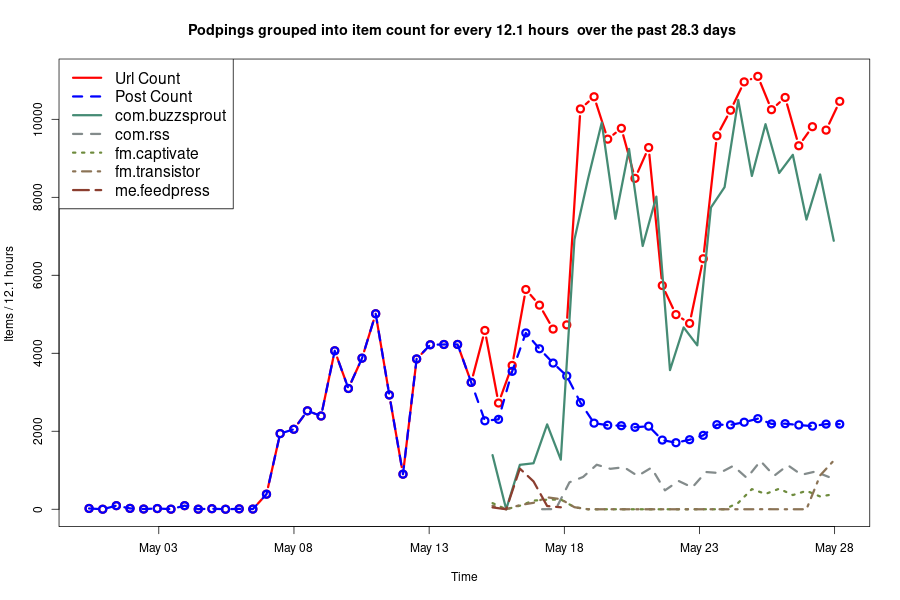
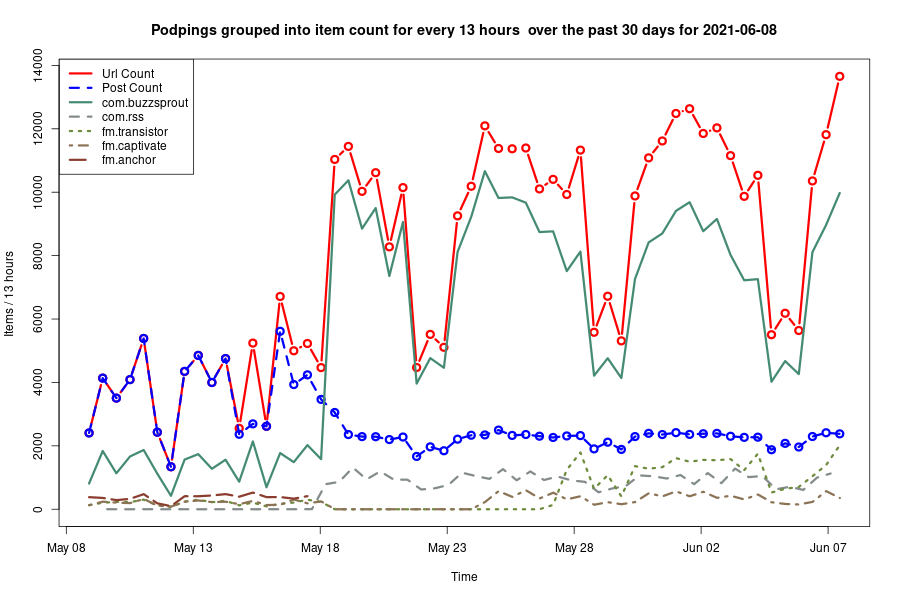
update reports

diff --git a/mastodon-toot-bot-hive/stats/index.md b/mastodon-toot-bot-hive/stats/index.md
@@ -7,12 +7,12 @@
 
 </head>
 <body>
-<div id="uxxnbngkma" style="overflow-x:auto;overflow-y:auto;width:auto;height:auto;">
+<div id="dcnlryonre" style="overflow-x:auto;overflow-y:auto;width:auto;height:auto;">
   <style>html {
   font-family: -apple-system, BlinkMacSystemFont, 'Segoe UI', Roboto, Oxygen, Ubuntu, Cantarell, 'Helvetica Neue', 'Fira Sans', 'Droid Sans', Arial, sans-serif;
 }
 
-#uxxnbngkma .gt_table {
+#dcnlryonre .gt_table {
   display: table;
   border-collapse: collapse;
   margin-left: auto;
@@ -37,7 +37,7 @@
   border-left-color: #D3D3D3;
 }
 
-#uxxnbngkma .gt_heading {
+#dcnlryonre .gt_heading {
   background-color: #71CA97;
   text-align: center;
   border-bottom-color: #B0E0E6;
@@ -49,7 +49,7 @@
   border-right-color: #D3D3D3;
 }
 
-#uxxnbngkma .gt_title {
+#dcnlryonre .gt_title {
   color: #FFFFFF;
   font-size: 125%;
   font-weight: initial;
@@ -59,7 +59,7 @@
   border-bottom-width: 0;
 }
 
-#uxxnbngkma .gt_subtitle {
+#dcnlryonre .gt_subtitle {
   color: #FFFFFF;
   font-size: 85%;
   font-weight: initial;
@@ -69,13 +69,13 @@
   border-top-width: 0;
 }
 
-#uxxnbngkma .gt_bottom_border {
+#dcnlryonre .gt_bottom_border {
   border-bottom-style: solid;
   border-bottom-width: 2px;
   border-bottom-color: #D3D3D3;
 }
 
-#uxxnbngkma .gt_col_headings {
+#dcnlryonre .gt_col_headings {
   border-top-style: solid;
   border-top-width: 2px;
   border-top-color: #D3D3D3;
@@ -90,7 +90,7 @@
   border-right-color: #D3D3D3;
 }
 
-#uxxnbngkma .gt_col_heading {
+#dcnlryonre .gt_col_heading {
   color: #333333;
   background-color: #DeF7E9;
   font-size: 100%;
@@ -110,7 +110,7 @@
   overflow-x: hidden;
 }
 
-#uxxnbngkma .gt_column_spanner_outer {
+#dcnlryonre .gt_column_spanner_outer {
   color: #333333;
   background-color: #DeF7E9;
   font-size: 100%;
@@ -122,15 +122,15 @@
   padding-right: 4px;
 }
 
-#uxxnbngkma .gt_column_spanner_outer:first-child {
+#dcnlryonre .gt_column_spanner_outer:first-child {
   padding-left: 0;
 }
 
-#uxxnbngkma .gt_column_spanner_outer:last-child {
+#dcnlryonre .gt_column_spanner_outer:last-child {
   padding-right: 0;
 }
 
-#uxxnbngkma .gt_column_spanner {
+#dcnlryonre .gt_column_spanner {
   border-bottom-style: solid;
   border-bottom-width: 2px;
   border-bottom-color: #D3D3D3;
@@ -142,7 +142,7 @@
   width: 100%;
 }
 
-#uxxnbngkma .gt_group_heading {
+#dcnlryonre .gt_group_heading {
   padding: 8px;
   color: #333333;
   background-color: #B0E0E6;
@@ -164,7 +164,7 @@
   vertical-align: middle;
 }
 
-#uxxnbngkma .gt_empty_group_heading {
+#dcnlryonre .gt_empty_group_heading {
   padding: 0.5px;
   color: #333333;
   background-color: #B0E0E6;
@@ -179,15 +179,15 @@
   vertical-align: middle;
 }
 
-#uxxnbngkma .gt_from_md > :first-child {
+#dcnlryonre .gt_from_md > :first-child {
   margin-top: 0;
 }
 
-#uxxnbngkma .gt_from_md > :last-child {
+#dcnlryonre .gt_from_md > :last-child {
   margin-bottom: 0;
 }
 
-#uxxnbngkma .gt_row {
+#dcnlryonre .gt_row {
   padding-top: 8px;
   padding-bottom: 8px;
   padding-left: 5px;
@@ -206,7 +206,7 @@
   overflow-x: hidden;
 }
 
-#uxxnbngkma .gt_stub {
+#dcnlryonre .gt_stub {
   color: #333333;
   background-color: #B0E0E6;
   font-size: 100%;
@@ -218,7 +218,7 @@
   padding-left: 12px;
 }
 
-#uxxnbngkma .gt_summary_row {
+#dcnlryonre .gt_summary_row {
   color: #333333;
   background-color: #B0E0E6;
   text-transform: inherit;
@@ -228,7 +228,7 @@
   padding-right: 5px;
 }
 
-#uxxnbngkma .gt_first_summary_row {
+#dcnlryonre .gt_first_summary_row {
   padding-top: 8px;
   padding-bottom: 8px;
   padding-left: 5px;
@@ -238,7 +238,7 @@
   border-top-color: #D3D3D3;
 }
 
-#uxxnbngkma .gt_grand_summary_row {
+#dcnlryonre .gt_grand_summary_row {
   color: #333333;
   background-color: #B0E0E6;
   text-transform: inherit;
@@ -248,7 +248,7 @@
   padding-right: 5px;
 }
 
-#uxxnbngkma .gt_first_grand_summary_row {
+#dcnlryonre .gt_first_grand_summary_row {
   padding-top: 8px;
   padding-bottom: 8px;
   padding-left: 5px;
@@ -258,11 +258,11 @@
   border-top-color: #D3D3D3;
 }
 
-#uxxnbngkma .gt_striped {
+#dcnlryonre .gt_striped {
   background-color: rgba(128, 128, 128, 0.05);
 }
 
-#uxxnbngkma .gt_table_body {
+#dcnlryonre .gt_table_body {
   border-top-style: solid;
   border-top-width: 2px;
   border-top-color: #D3D3D3;
@@ -271,7 +271,7 @@
   border-bottom-color: #D3D3D3;
 }
 
-#uxxnbngkma .gt_footnotes {
+#dcnlryonre .gt_footnotes {
   color: #333333;
   background-color: #B0E0E6;
   border-bottom-style: none;
@@ -285,13 +285,13 @@
   border-right-color: #D3D3D3;
 }
 
-#uxxnbngkma .gt_footnote {
+#dcnlryonre .gt_footnote {
   margin: 0px;
   font-size: 90%;
   padding: 4px;
 }
 
-#uxxnbngkma .gt_sourcenotes {
+#dcnlryonre .gt_sourcenotes {
   color: #333333;
   background-color: #DeF7E9;
   border-bottom-style: none;
@@ -305,41 +305,41 @@
   border-right-color: #D3D3D3;
 }
 
-#uxxnbngkma .gt_sourcenote {
+#dcnlryonre .gt_sourcenote {
   font-size: 90%;
   padding: 4px;
 }
 
-#uxxnbngkma .gt_left {
+#dcnlryonre .gt_left {
   text-align: left;
 }
 
-#uxxnbngkma .gt_center {
+#dcnlryonre .gt_center {
   text-align: center;
 }
 
-#uxxnbngkma .gt_right {
+#dcnlryonre .gt_right {
   text-align: right;
   font-variant-numeric: tabular-nums;
 }
 
-#uxxnbngkma .gt_font_normal {
+#dcnlryonre .gt_font_normal {
   font-weight: normal;
 }
 
-#uxxnbngkma .gt_font_bold {
+#dcnlryonre .gt_font_bold {
   font-weight: bold;
 }
 
-#uxxnbngkma .gt_font_italic {
+#dcnlryonre .gt_font_italic {
   font-style: italic;
 }
 
-#uxxnbngkma .gt_super {
+#dcnlryonre .gt_super {
   font-size: 65%;
 }
 
-#uxxnbngkma .gt_footnote_marks {
+#dcnlryonre .gt_footnote_marks {
   font-style: italic;
   font-weight: normal;
   font-size: 65%;
@@ -348,7 +348,7 @@
   <table class="gt_table">
   <thead class="gt_header">
     <tr>
-      <th colspan="4" class="gt_heading gt_title gt_font_normal" style>Podping report for the last 30.1 days </th>
+      <th colspan="4" class="gt_heading gt_title gt_font_normal" style>Podping report for the last 30 days </th>
     </tr>
     <tr>
       <th colspan="4" class="gt_heading gt_subtitle gt_font_normal gt_bottom_border" style>Podping urls are 'custom json' posts on the Hive.io block chain</th>
@@ -479,14 +479,13 @@
 </html>
 
 # Charts
-[![last_published_30.1 days-podping-frequency.png](last_published_30.1 days-podping-frequency.png)](last_published_30.1 days-podping-frequency.png)
-[![last_published_21.9 days-podping-frequency.png](last_published_21.9 days-podping-frequency.png)](last_published_21.9 days-podping-frequency.png)
-[![last_published_day-podping-frequency.png](last_published_day-podping-frequency.png)](last_published_day-podping-frequency.png)
 [![last_published_30 days-podping-frequency.png](last_published_30 days-podping-frequency.png)](last_published_30 days-podping-frequency.png)
+[![last_published_30.1 days-podping-frequency.png](last_published_30.1 days-podping-frequency.png)](last_published_30.1 days-podping-frequency.png)
+[![last_published_day-podping-frequency.png](last_published_day-podping-frequency.png)](last_published_day-podping-frequency.png)
 [![last_published_7 days-podping-frequency.png](last_published_7 days-podping-frequency.png)](last_published_7 days-podping-frequency.png)
 # Past charts
+[![2021-06-08_30 days-podping-frequency.png](2021-06-08_30 days-podping-frequency.png)](2021-06-08_30 days-podping-frequency.png)
 [![2021-06-08_30.1 days-podping-frequency.png](2021-06-08_30.1 days-podping-frequency.png)](2021-06-08_30.1 days-podping-frequency.png)
-[![2021-06-07_21.9 days-podping-frequency.png](2021-06-07_21.9 days-podping-frequency.png)](2021-06-07_21.9 days-podping-frequency.png)
 [![2021-06-07_day-podping-frequency.png](2021-06-07_day-podping-frequency.png)](2021-06-07_day-podping-frequency.png)
 [![2021-06-02_day-podping-frequency.png](2021-06-02_day-podping-frequency.png)](2021-06-02_day-podping-frequency.png)
 [![2021-06-03_7 days-podping-frequency.png](2021-06-03_7 days-podping-frequency.png)](2021-06-03_7 days-podping-frequency.png)
@@ -502,8 +501,8 @@
 [![2021-05-28_28 days-podping-url-frequency.png](2021-05-28_28 days-podping-url-frequency.png)](2021-05-28_28 days-podping-url-frequency.png)
 [![2021-05-28_28 days-podping-post-frequency.png](2021-05-28_28 days-podping-post-frequency.png)](2021-05-28_28 days-podping-post-frequency.png)
 [![2021-06-01-7 days-podping-frequency.png](2021-06-01-7 days-podping-frequency.png)](2021-06-01-7 days-podping-frequency.png)# Past reports 
+- [2021-06-08_30 days-url-report.html](2021-06-08_30 days-url-report.html)
 - [2021-06-08_30.1 days-url-report.html](2021-06-08_30.1 days-url-report.html)
-- [2021-06-07_21.9 days-url-report.html](2021-06-07_21.9 days-url-report.html)
 - [2021-06-07_day-url-report.html](2021-06-07_day-url-report.html)
 - [2021-06-02_day-url-report.html](2021-06-02_day-url-report.html)
 - [2021-06-03_7 days-url-report.html](2021-06-03_7 days-url-report.html)
